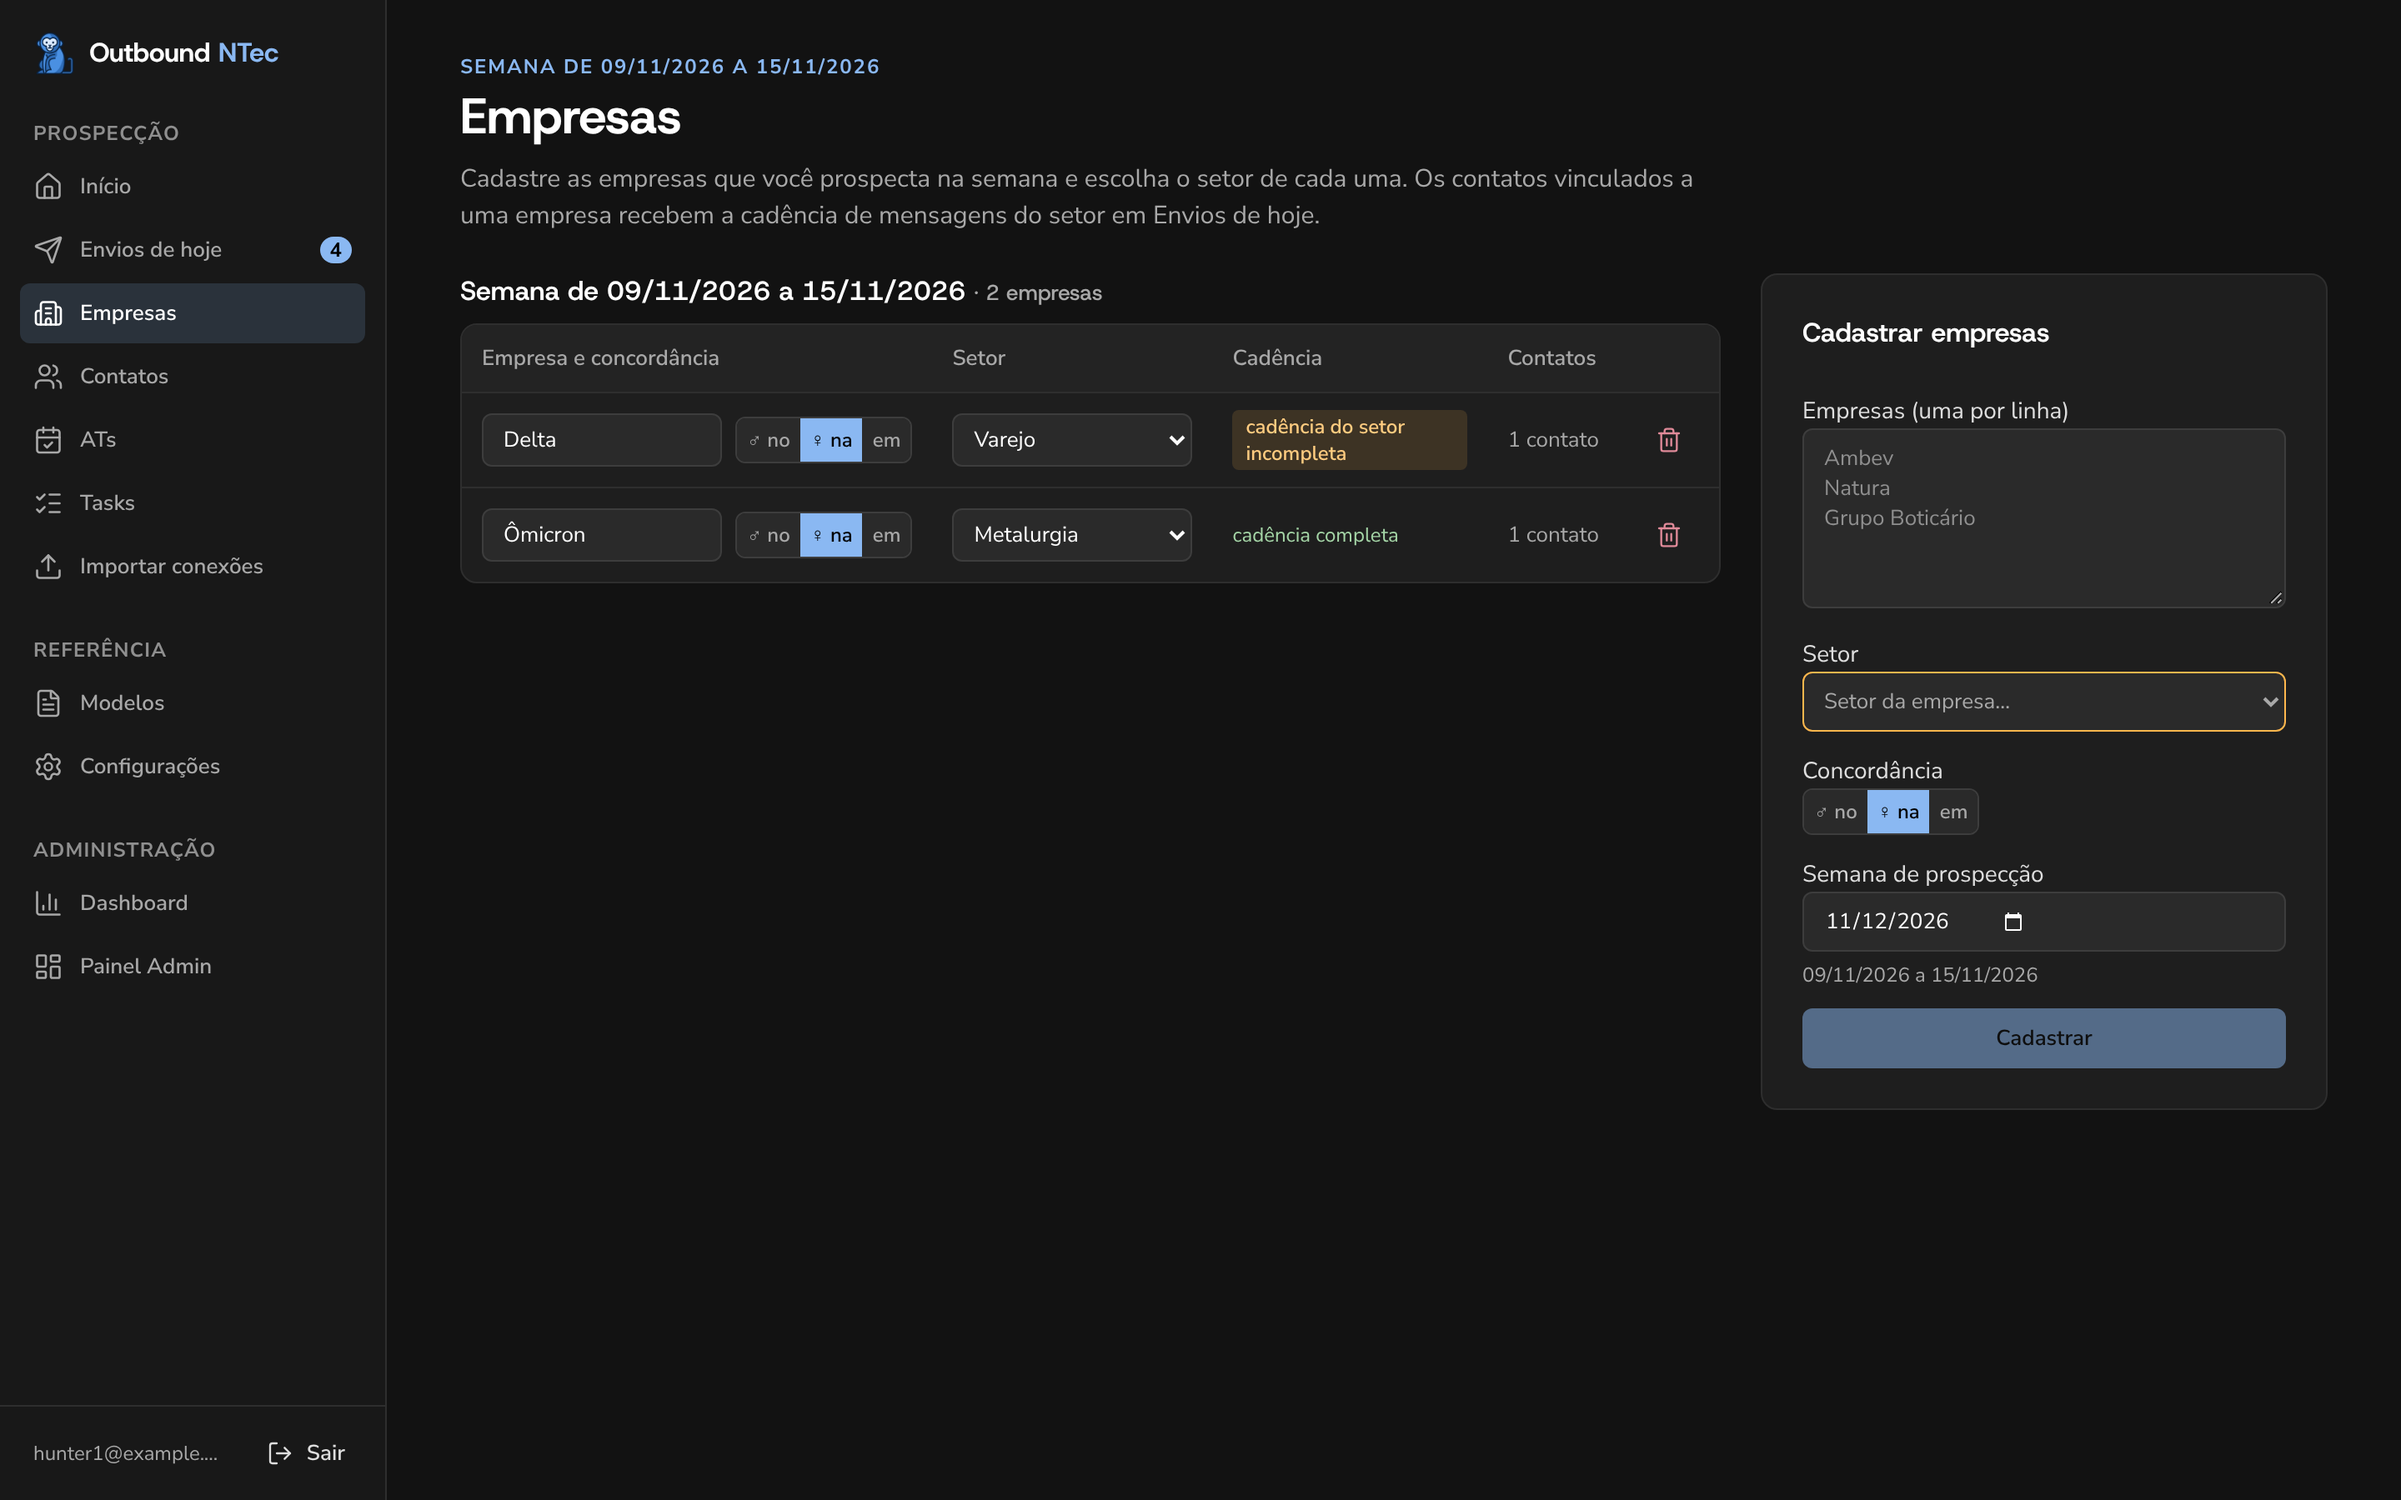
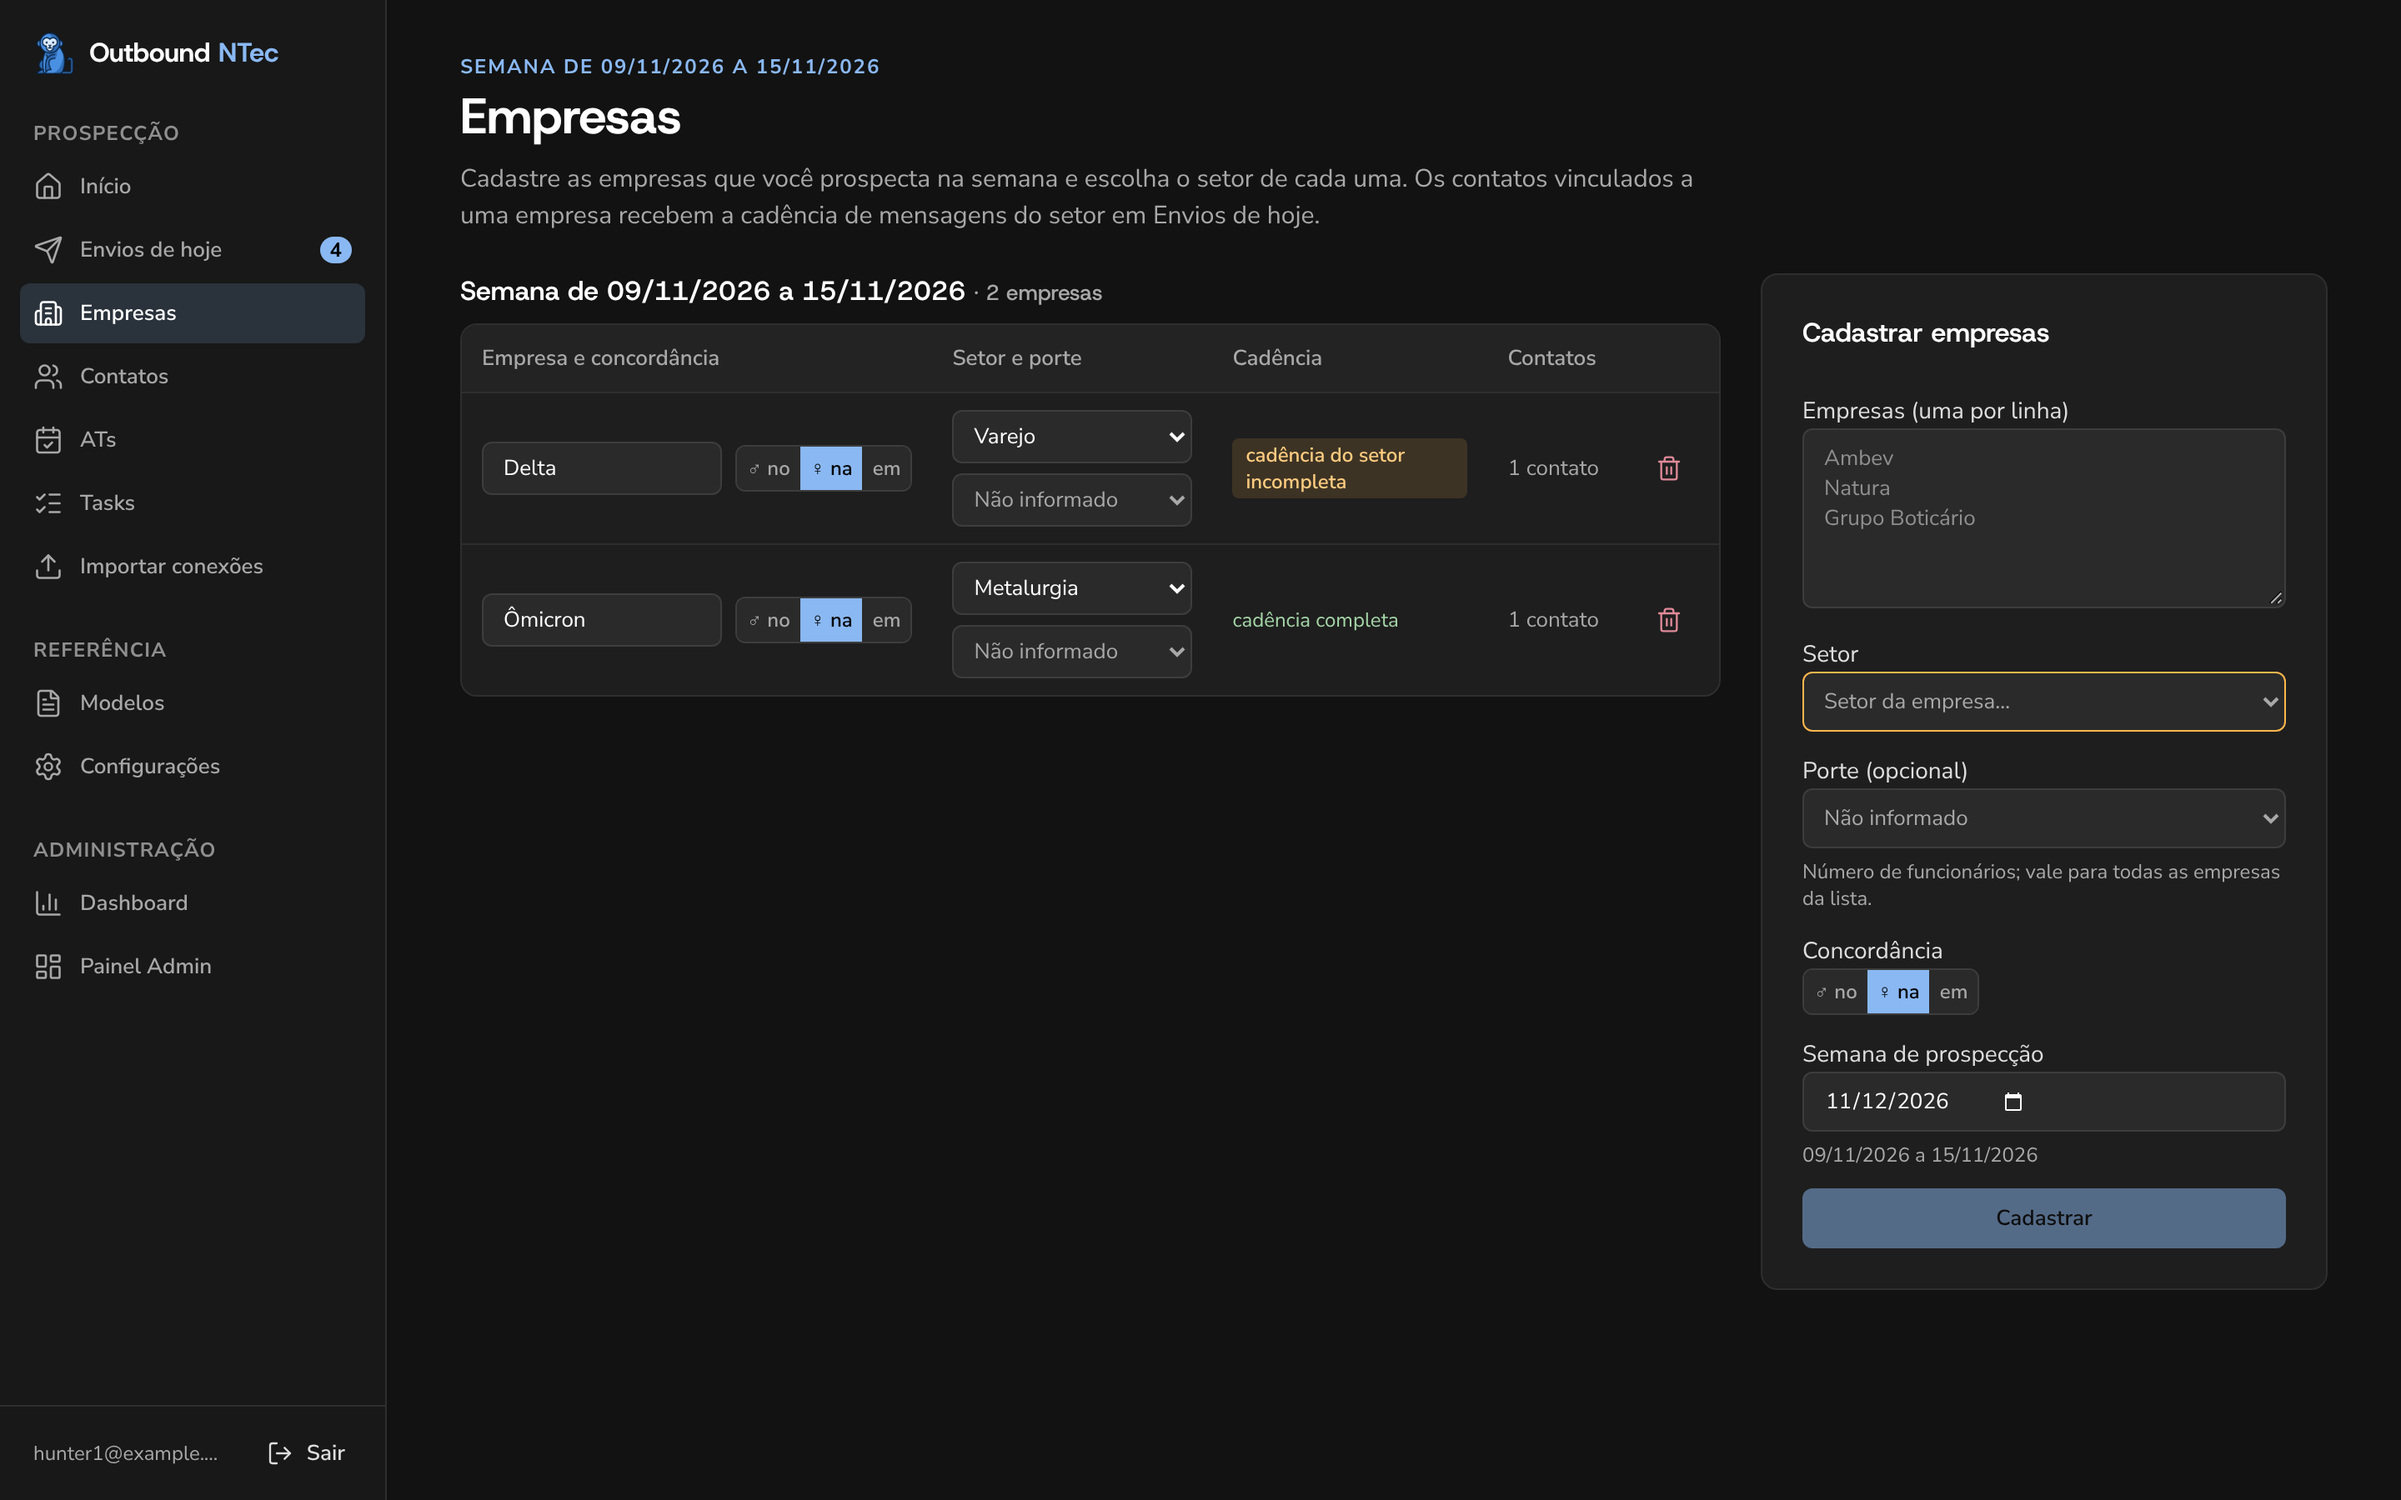
feat(empresas): escolhe o porte da empresa
Fase 2 da dashboard de outbound (PR 2.4 do plano). Porte opcional (faixas de funcionários iguais
às do Pipedrive) embaixo do setor em cada empresa da lista e no cadastro em lote, valendo para
todas as empresas da lista; vazio aparece como "Não informado", sem selo de pendência. Fica na
mesma célula do setor ("Setor e porte") para a tabela caber ao lado do formulário sem rolagem.

Claude-Session: https://claude.ai/code/session_0137A66yoRLBZ4ngndr6bSBF

diff --git a/src/components/empresas/CompanyForm.tsx b/src/components/empresas/CompanyForm.tsx
@@ -8,6 +8,7 @@ import { Input } from "@/components/ui/input";
 import { Label } from "@/components/ui/label";
 import { Textarea } from "@/components/ui/textarea";
 import { useAddCompanies } from "@/hooks/useCadencia";
+import { PorteSelect } from "./PorteSelect";
 import { formatBR, todayISO, type CompanyGender } from "@/lib/cadencia";
 import {
   normalizeCompany,
@@ -15,6 +16,7 @@ import {
   weekEndISO,
   weekStartISO,
   type Company,
+  type Porte,
   type SectorNode,
 } from "@/lib/empresas";
 import { errorMessage } from "@/lib/utils";
@@ -32,6 +34,7 @@ export function CompanyForm({
   const [text, setText] = useState("");
   const [choice, setChoice] = useState<SectorChoice | null>(null);
   const [gender, setGender] = useState<CompanyGender>("feminino");
+  const [porte, setPorte] = useState<Porte | null>(null);
   const [day, setDay] = useState(todayISO());
   const week = weekStartISO(day || todayISO());
 
@@ -58,6 +61,8 @@ export function CompanyForm({
         sector_id: choice.sector_id,
         // A chave só vai quando há subsetor.
         ...(choice.subsector_id ? { subsector_id: choice.subsector_id } : {}),
+        // O porte (opcional) vale para todas as empresas da lista.
+        ...(porte ? { porte } : {}),
         week_start: week,
       })),
       {
@@ -111,6 +116,19 @@ export function CompanyForm({
                   onChange={setChoice}
                   className="w-full"
                 />
+              </div>
+              <div className="space-y-1.5">
+                <Label htmlFor="porte">Porte (opcional)</Label>
+                <PorteSelect
+                  id="porte"
+                  label="Porte (opcional)"
+                  value={porte}
+                  onChange={setPorte}
+                  className="w-full"
+                />
+                <p className="text-caption text-muted-foreground">
+                  Número de funcionários; vale para todas as empresas da lista.
+                </p>
               </div>
               <div className="space-y-1.5">
                 <Label>Concordância</Label>

diff --git a/e2e/empresas.spec.ts b/e2e/empresas.spec.ts
@@ -5,6 +5,7 @@ const U1 = "11111111-1111-4111-8111-111111111111";
 const SETOR_VAREJO = "12121212-0000-4000-8000-000000000001";
 const SETOR_INDUSTRIA = "12121212-0000-4000-8000-000000000003";
 const SUBSETOR_METALURGIA = "12121212-0000-4000-8000-000000000004";
+const EMPRESA_DELTA = "13131313-0000-4000-8000-000000000001";
 
 test.describe("Empresas", () => {
   test("lista as empresas por semana, com setor e contatos vinculados", async ({ page }) => {
@@ -275,5 +276,32 @@ test.describe("Empresas", () => {
     await page.getByRole("button", { name: "[FIRST NAME]", exact: true }).click();
     await expect(msg).toHaveValue("Oi, [FIRST NAME]");
     await expect(page.getByRole("tab", { name: /^LinkedIn 1/ })).toContainText("própria");
+  });
+
+  test("escolhe o porte da empresa na lista e no cadastro (opcional)", async ({ page }) => {
+    await page.goto("/empresas");
+    const delta = page.getByRole("combobox", { name: "Porte de Delta" });
+    await expect(delta).toHaveValue("");
+    await expect(delta.locator("option:checked")).toHaveText("Não informado");
+    await delta.selectOption({ label: "51 a 200" });
+    await expect(page.getByText("Porte atualizado")).toBeVisible();
+    let [m] = await mutations();
+    expect(m).toMatchObject({ method: "PATCH", table: "companies" });
+    expect(m!.query).toContain(EMPRESA_DELTA);
+    expect(JSON.parse(m!.body)).toEqual({ porte: "51-200" });
+
+    await page.getByLabel("Empresas (uma por linha)").fill("Zeta\nÔmega");
+    const form = page.getByRole("form", { name: "Cadastrar empresas" });
+    await form
+      .getByRole("combobox", { name: "Setor da empresa" })
+      .selectOption({ label: "Varejo" });
+    await form.getByLabel("Porte (opcional)").selectOption({ label: "1.001 a 5.000" });
+    await form.getByRole("button", { name: "Cadastrar" }).click();
+    await expect(page.getByText("2 empresas cadastradas")).toBeVisible();
+    m = (await mutations())[1];
+    expect(JSON.parse(m!.body).map((c: { porte: string }) => c.porte)).toEqual([
+      "1001-5000",
+      "1001-5000",
+    ]);
   });
 });

diff --git a/src/components/empresas/CompanyList.tsx b/src/components/empresas/CompanyList.tsx
@@ -2,6 +2,7 @@ import { Building2, Trash2 } from "lucide-react";
 import { toast } from "sonner";
 import { CompanyGenderToggle } from "@/components/CompanyGender";
 import { IndustrySelect } from "@/components/IndustrySelect";
+import { PorteSelect } from "./PorteSelect";
 import { InlineInput } from "@/components/InlineInput";
 import type { Ask } from "@/components/useConfirm";
 import { Button } from "@/components/ui/button";
@@ -76,7 +77,7 @@ export function CompanyList({
               <TableHeader>
                 <TableRow>
                   <TableHead>Empresa e concordância</TableHead>
-                  <TableHead>Setor</TableHead>
+                  <TableHead>Setor e porte</TableHead>
                   <TableHead>Cadência</TableHead>
                   <TableHead>Contatos</TableHead>
                   <TableHead className="w-12">
@@ -113,6 +114,12 @@ export function CompanyList({
                           subsectorId={c.subsector_id}
                           onChange={(v) => patch(c, v, "Setor atualizado")}
                           className="h-8 w-36"
+                        />
+                        <PorteSelect
+                          label={`Porte de ${c.name}`}
+                          value={c.porte}
+                          onChange={(porte) => patch(c, { porte }, "Porte atualizado")}
+                          className="mt-1.5 block h-8 w-36"
                         />
                       </TableCell>
                       <TableCell>

diff --git a/src/components/empresas/PorteSelect.tsx b/src/components/empresas/PorteSelect.tsx
@@ -1,0 +1,39 @@
+import { NativeSelect } from "@/components/ui/native-select";
+import { PORTES, isPorte, type Porte } from "@/lib/empresas";
+import { cn } from "@/lib/utils";
+
+/**
+ * Porte da empresa (faixa de funcionários, as mesmas do Pipedrive). Opcional: vazio aparece como
+ * "Não informado", sem selo de pendência.
+ */
+export function PorteSelect({
+  value,
+  onChange,
+  label,
+  id,
+  className,
+}: {
+  value: string | null;
+  onChange: (porte: Porte | null) => void;
+  /** Nome acessível do seletor. */
+  label: string;
+  id?: string;
+  className?: string;
+}) {
+  return (
+    <NativeSelect
+      id={id}
+      aria-label={label}
+      className={cn(!value && "text-muted-foreground", className)}
+      value={value ?? ""}
+      onChange={(e) => onChange(isPorte(e.target.value) ? e.target.value : null)}
+    >
+      <option value="">Não informado</option>
+      {PORTES.map((p) => (
+        <option key={p.key} value={p.key}>
+          {p.label}
+        </option>
+      ))}
+    </NativeSelect>
+  );
+}
